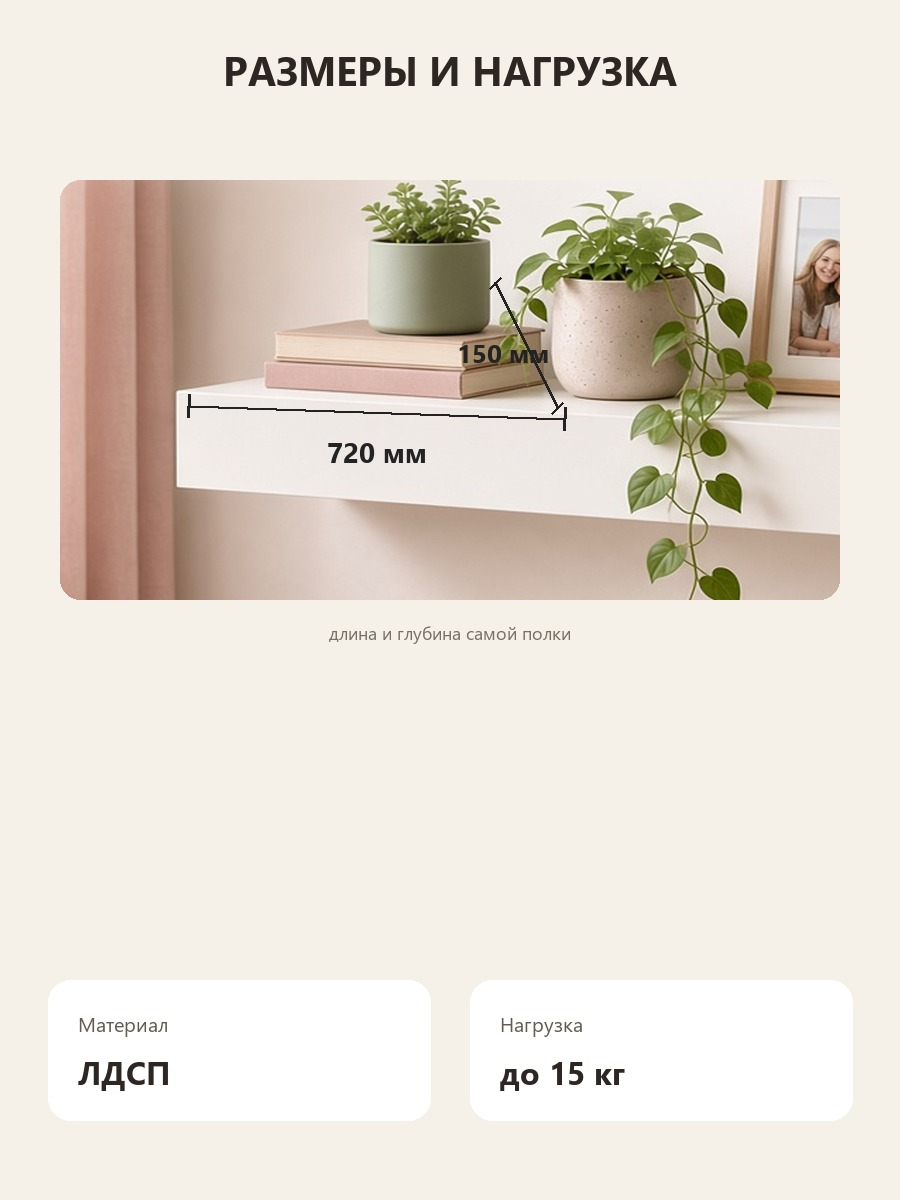
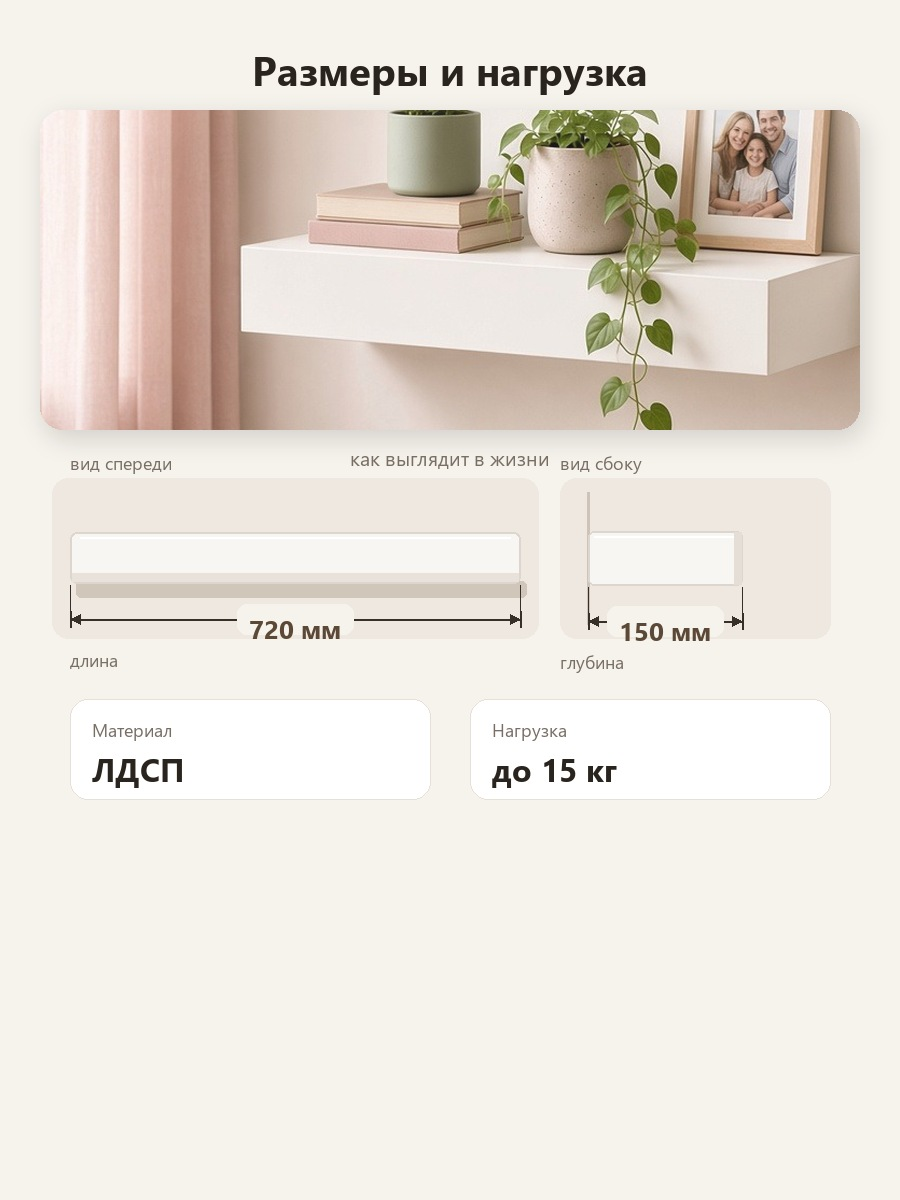
Rebuild shelf dims as photo + front/side callouts.
Replace broken perspective overlays and the fake 500 mm with marketplace-standard orthographic length/depth lines from the board edges.

diff --git a/public/marketplace/index.html b/public/marketplace/index.html
@@ -214,9 +214,9 @@
           <p class="mp-case__text">Обложка, интерьер, размеры и нагрузка, выгоды и сравнение с громоздким шкафом.</p>
         </div>
         <div class="mp-slides">
-          <figure class="mp-slide"><img src="../images/marketplace/case2/01_cover.jpg" alt="Обложка навесной полки" loading="lazy" width="450" height="600"><figcaption>01 · обложка</figcaption></figure>
+          <figure class="mp-slide"><img src="../images/marketplace/case2/01_cover.jpg?v=20261027g" alt="Обложка навесной полки" loading="lazy" width="450" height="600"><figcaption>01 · обложка</figcaption></figure>
           <figure class="mp-slide"><img src="../images/marketplace/case2/02_lifestyle.jpg" alt="Полка в интерьере" loading="lazy" width="450" height="600"><figcaption>02 · в интерьере</figcaption></figure>
-          <figure class="mp-slide"><img src="../images/marketplace/case2/03_specs_dims.jpg?v=20261027f" alt="Размеры и нагрузка" loading="lazy" width="450" height="600"><figcaption>03 · размеры</figcaption></figure>
+          <figure class="mp-slide"><img src="../images/marketplace/case2/03_specs_dims.jpg?v=20261027g" alt="Размеры и нагрузка" loading="lazy" width="450" height="600"><figcaption>03 · размеры</figcaption></figure>
           <figure class="mp-slide"><img src="../images/marketplace/case2/04_benefits.jpg?v=20261027f" alt="Выгоды полки" loading="lazy" width="450" height="600"><figcaption>04 · выгоды</figcaption></figure>
           <figure class="mp-slide"><img src="../images/marketplace/case2/05_compare.jpg?v=20261027f" alt="Сравнение со шкафом" loading="lazy" width="450" height="600"><figcaption>05 · сравнение</figcaption></figure>
         </div>

diff --git a/public/showcase/mp/index.html b/public/showcase/mp/index.html
@@ -142,7 +142,7 @@
           <h3 class="mp-case__title">Навесная полка</h3>
         </div>
         <div class="mp-slides">
-          <figure class="mp-slide"><img src="../../images/marketplace/case2/01_cover.jpg" alt="" loading="lazy" width="450" height="600"></figure>
+          <figure class="mp-slide"><img src="../../images/marketplace/case2/01_cover.jpg?v=20261027g" alt="" loading="lazy" width="450" height="600"></figure>
           <figure class="mp-slide"><img src="../../images/marketplace/case2/04_benefits.jpg?v=20261027f" alt="" loading="lazy" width="450" height="600"></figure>
           <figure class="mp-slide"><img src="../../images/marketplace/case2/05_compare.jpg?v=20261027f" alt="" loading="lazy" width="450" height="600"></figure>
         </div>

diff --git a/scripts/mp_layout_kit/rebuild_shelf_dims.py b/scripts/mp_layout_kit/rebuild_shelf_dims.py
@@ -1,0 +1,185 @@
+"""Shelf dims slide: photo + orthographic callouts (marketplace gold pattern).
+
+Research basis (wild-card / fotofactor / Target floating-shelf cards):
+- Lines from real product edges; no crossing; large numbers + units
+- Volumetric goods need front + side (or a clear schematic)
+- Do NOT measure decor (frames, plants)
+- Lifestyle photo alone + freehand perspective lines = weak / wrong
+"""
+from __future__ import annotations
+
+import math
+from pathlib import Path
+
+from PIL import Image, ImageDraw, ImageFilter
+
+from common import IMG, W, H, fnt, fit_cover, paste_rounded, save_jpg, text_center
+
+BG = (246, 242, 236)
+INK = (42, 36, 30)
+MUTED = (120, 110, 100)
+ACCENT = (92, 72, 54)
+LINE = (55, 48, 40)
+SHELF = (248, 246, 242)
+SHELF_EDGE = (220, 214, 206)
+WALL = (238, 232, 224)
+
+
+def dim_h(draw: ImageDraw.ImageDraw, x0: float, x1: float, y: float, label: str, font, gap=10):
+    """Horizontal dimension between x0..x1 at y, with end ticks + centered label pill."""
+    # extension ticks
+    for x in (x0, x1):
+        draw.line((x, y - 8, x, y + 8), fill=LINE, width=2)
+    draw.line((x0, y, x1, y), fill=LINE, width=2)
+    # arrowheads
+    for x, s in ((x0, 1), (x1, -1)):
+        draw.polygon([(x, y), (x + s * 10, y - 5), (x + s * 10, y + 5)], fill=LINE)
+    bb = draw.textbbox((0, 0), label, font=font)
+    tw, th = bb[2] - bb[0], bb[3] - bb[1]
+    cx = (x0 + x1) / 2
+    pad_x, pad_y = 12, 6
+    box = (cx - tw / 2 - pad_x, y - th / 2 - pad_y - gap, cx + tw / 2 + pad_x, y + th / 2 + pad_y - gap)
+    # white pill so line doesn't cut through digits
+    draw.rounded_rectangle(box, 10, fill=BG)
+    # break the dim line under the pill
+    draw.line((x0 + 10, y, box[0] - 2, y), fill=LINE, width=2)
+    draw.line((box[2] + 2, y, x1 - 10, y), fill=LINE, width=2)
+    draw.text((cx - tw / 2, y - th / 2 - gap), label, font=font, fill=ACCENT)
+
+
+def dim_v(draw: ImageDraw.ImageDraw, y0: float, y1: float, x: float, label: str, font, gap=14):
+    """Vertical dimension between y0..y1 at x."""
+    for y in (y0, y1):
+        draw.line((x - 8, y, x + 8, y), fill=LINE, width=2)
+    draw.line((x, y0, x, y1), fill=LINE, width=2)
+    for y, s in ((y0, 1), (y1, -1)):
+        draw.polygon([(x, y), (x - 5, y + s * 10), (x + 5, y + s * 10)], fill=LINE)
+    bb = draw.textbbox((0, 0), label, font=font)
+    tw, th = bb[2] - bb[0], bb[3] - bb[1]
+    cy = (y0 + y1) / 2
+    pad_x, pad_y = 10, 5
+    box = (x + gap, cy - th / 2 - pad_y, x + gap + tw + 2 * pad_x, cy + th / 2 + pad_y)
+    draw.rounded_rectangle(box, 10, fill=BG)
+    draw.text((box[0] + pad_x, cy - th / 2), label, font=font, fill=ACCENT)
+
+
+def draw_front_shelf(draw: ImageDraw.ImageDraw, box, thickness_ratio=0.32):
+    """Orthographic front: thick floating shelf board."""
+    x0, y0, x1, y1 = box
+    th = y1 - y0
+    board_h = int(th * thickness_ratio)
+    top = y0 + (th - board_h) // 2
+    # soft wall strip behind
+    draw.rounded_rectangle((x0 - 18, y0, x1 + 18, y1), 16, fill=WALL)
+    # shadow under board
+    draw.rounded_rectangle((x0 + 6, top + board_h - 2, x1 + 6, top + board_h + 14), 5, fill=(208, 198, 186))
+    # board body
+    draw.rounded_rectangle((x0, top, x1, top + board_h), 7, fill=SHELF, outline=SHELF_EDGE, width=2)
+    # top highlight + bottom lip (reads as thickness)
+    draw.line((x0 + 10, top + 5, x1 - 10, top + 5), fill=(255, 255, 255), width=2)
+    draw.rectangle((x0 + 2, top + board_h - 10, x1 - 2, top + board_h - 2), fill=(232, 226, 218))
+    return x0, top, x1, top + board_h
+
+
+def draw_side_shelf(draw: ImageDraw.ImageDraw, box, depth_ratio=0.70, thickness_ratio=0.34):
+    """Orthographic side: depth into wall (left=wall, right=front)."""
+    x0, y0, x1, y1 = box
+    draw.rounded_rectangle((x0, y0, x1, y1), 16, fill=WALL)
+    wall_x = x0 + 28
+    draw.line((wall_x, y0 + 14, wall_x, y1 - 14), fill=(205, 195, 185), width=3)
+    depth = int((x1 - x0 - 50) * depth_ratio)
+    board_h = int((y1 - y0) * thickness_ratio)
+    top = y0 + (y1 - y0 - board_h) // 2
+    bx0, bx1 = wall_x, wall_x + depth
+    draw.rounded_rectangle((bx0, top, bx1, top + board_h), 6, fill=SHELF, outline=SHELF_EDGE, width=2)
+    draw.line((bx0 + 6, top + 5, bx1 - 8, top + 5), fill=(255, 255, 255), width=2)
+    # front face (end of board)
+    draw.rectangle((bx1 - 8, top + 1, bx1 - 1, top + board_h - 1), fill=(228, 222, 214))
+    return bx0, top, bx1, top + board_h, wall_x
+
+
+def chip(draw, xy, w, h, label, value, font_l, font_v):
+    x, y = xy
+    draw.rounded_rectangle((x, y, x + w, y + h), 18, fill=(255, 255, 255), outline=(230, 224, 216), width=1)
+    draw.text((x + 22, y + 18), label, font=font_l, fill=MUTED)
+    draw.text((x + 22, y + 48), value, font=font_v, fill=INK)
+
+
+def build() -> Path:
+    out = Image.new("RGB", (W, H), BG)
+    draw = ImageDraw.Draw(out)
+
+    # Title
+    text_center(draw, "Размеры и нагрузка", 42, fnt(40, True), INK)
+
+    # --- Photo proof (real product) ---
+    # Prefer old clean lifestyle product crop from cover / archived dims base
+    src_candidates = [
+        IMG / "case2" / "_dims_base.jpg",
+        IMG / "case2" / "01_cover.jpg",
+        IMG / "case2" / "03_specs_dims.jpg",
+    ]
+    src = next((p for p in src_candidates if p.exists()), IMG / "case2" / "01_cover.jpg")
+    photo = Image.open(src).convert("RGB")
+    # crop around the shelf band (upper-mid of cover-style shots)
+    sw, sh = photo.size
+    crop = photo.crop((int(sw * 0.06), int(sh * 0.28), int(sw * 0.94), int(sh * 0.62)))
+    panel_w, panel_h = 820, 320
+    panel = fit_cover(crop, (panel_w, panel_h))
+    # soft vignette so decor is quieter; product stays readable
+    vignette = Image.new("RGB", panel.size, (248, 244, 238))
+    panel = Image.blend(panel, vignette, 0.08)
+    px, py = (W - panel_w) // 2, 110
+    # soft shadow
+    sh_img = Image.new("RGBA", (W, H), (0, 0, 0, 0))
+    ImageDraw.Draw(sh_img).rounded_rectangle((px + 4, py + 8, px + panel_w + 4, py + panel_h + 8), 22, fill=(0, 0, 0, 36))
+    sh_img = sh_img.filter(ImageFilter.GaussianBlur(12))
+    out = Image.alpha_composite(out.convert("RGBA"), sh_img).convert("RGB")
+    draw = ImageDraw.Draw(out)
+    paste_rounded(out, panel, (px, py), 22)
+    draw = ImageDraw.Draw(out)
+
+    # caption under photo
+    text_center(draw, "как выглядит в жизни", py + panel_h + 14, fnt(20), MUTED)
+
+    # --- Orthographic diagrams (the accurate measurements) ---
+    diagram_top = py + panel_h + 48
+    label_font = fnt(26, True)
+    caption_font = fnt(18)
+
+    # Front view — length
+    front_box = (70, diagram_top, 520, diagram_top + 160)
+    draw.text((70, diagram_top - 28), "вид спереди", font=caption_font, fill=MUTED)
+    fx0, ftop, fx1, fbot = draw_front_shelf(draw, front_box)
+    # extension lines from board ends down to dim line
+    dim_y = fbot + 36
+    draw.line((fx0, fbot + 2, fx0, dim_y - 8), fill=LINE, width=1)
+    draw.line((fx1, fbot + 2, fx1, dim_y - 8), fill=LINE, width=1)
+    dim_h(draw, fx0, fx1, dim_y, "720 мм", label_font, gap=0)
+
+    # Side view — depth
+    side_box = (560, diagram_top, 830, diagram_top + 160)
+    draw.text((560, diagram_top - 28), "вид сбоку", font=caption_font, fill=MUTED)
+    bx0, top, bx1, bot, wall_x = draw_side_shelf(draw, side_box)
+    # depth dim BELOW the board, measuring wall→front (actual depth of shelf)
+    dim_y2 = bot + 36
+    draw.line((bx0, bot + 2, bx0, dim_y2 - 8), fill=LINE, width=1)
+    draw.line((bx1, bot + 2, bx1, dim_y2 - 8), fill=LINE, width=1)
+    dim_h(draw, bx0, bx1, dim_y2, "150 мм", label_font, gap=0)
+
+    # helper labels under diagrams
+    draw.text((70, dim_y + 28), "длина", font=caption_font, fill=MUTED)
+    draw.text((560, dim_y2 + 28), "глубина", font=caption_font, fill=MUTED)
+
+    # --- Spec chips (tight under diagrams — avoid empty mid band) ---
+    chip_y = max(dim_y, dim_y2) + 78
+    chip(draw, (70, chip_y), 360, 100, "Материал", "ЛДСП", fnt(18), fnt(32, True))
+    chip(draw, (470, chip_y), 360, 100, "Нагрузка", "до 15 кг", fnt(18), fnt(32, True))
+
+    path = IMG / "case2" / "03_specs_dims.jpg"
+    save_jpg(out, path, quality=93)
+    return path
+
+
+if __name__ == "__main__":
+    build()
